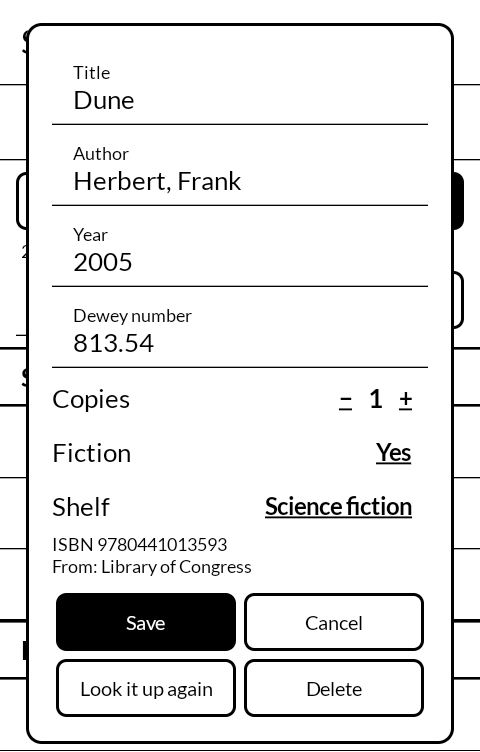
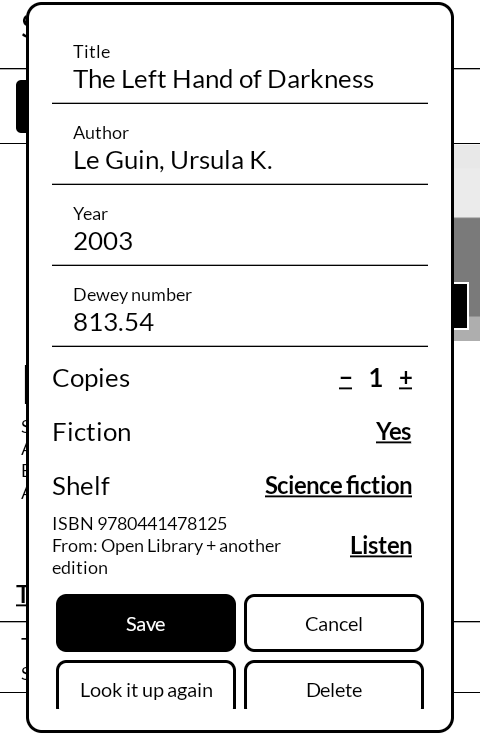
0.1.7: Listen, on a book's page, when Audio Reading has a recording of it

diff --git a/app/src/main/kotlin/com/wanderwildwood/shoka/ui/Dialogs.kt b/app/src/main/kotlin/com/wanderwildwood/shoka/ui/Dialogs.kt
@@ -26,6 +26,7 @@ import androidx.compose.runtime.Composable
 import androidx.compose.runtime.LaunchedEffect
 import androidx.compose.runtime.getValue
 import androidx.compose.runtime.mutableStateOf
+import androidx.compose.runtime.produceState
 import androidx.compose.runtime.remember
 import androidx.compose.runtime.rememberCoroutineScope
 import androidx.compose.runtime.setValue
@@ -52,6 +53,7 @@ import com.wanderwildwood.shoka.Found
 import com.wanderwildwood.shoka.Isbn
 import com.wanderwildwood.shoka.Lccn
 import com.wanderwildwood.shoka.Library
+import com.wanderwildwood.shoka.Listen
 import com.wanderwildwood.shoka.LoginFlow
 import com.wanderwildwood.shoka.Lookup
 import com.wanderwildwood.shoka.R
@@ -258,8 +260,21 @@ fun EditDialog(lib: Library, book: Book, dismiss: () -> Unit) {
                 book.isbn.takeIf { it.isNotEmpty() }?.let { "ISBN $it" },
                 book.lccn.takeIf { it.isNotEmpty() }?.let { "LCCN $it" },
             ).joinToString("  ·  ")
-            if (ids.isNotEmpty()) Note(ids)
-            if (book.source.isNotEmpty()) Note(stringResource(R.string.source, book.source))
+            // Listen sits beside the numbers, only when Audio Reading has this book to play, so
+            // the dialog keeps to one screen.
+            val context = LocalContext.current
+            val recording by produceState<String?>(null, book.title, book.author) {
+                value = withContext(Dispatchers.IO) { Listen.find(context, book) }
+            }
+            Row(verticalAlignment = Alignment.CenterVertically) {
+                Column(Modifier.weight(1f)) {
+                    if (ids.isNotEmpty()) Note(ids)
+                    if (book.source.isNotEmpty()) Note(stringResource(R.string.source, book.source))
+                }
+                recording?.let { key ->
+                    Link(stringResource(R.string.listen)) { Listen.open(context, key); dismiss() }
+                }
+            }
             Spacer(Modifier.height(8.dp))
             // Two to a row, so the whole dialog fits a 480x800 screen without scrolling.
             Row {

diff --git a/app/src/main/kotlin/com/wanderwildwood/shoka/Listen.kt b/app/src/main/kotlin/com/wanderwildwood/shoka/Listen.kt
@@ -1,0 +1,42 @@
+package com.wanderwildwood.shoka
+
+import android.content.Context
+import android.content.Intent
+import android.net.Uri
+
+/**
+ * A book's recording in Audio Reading (com.wanderwildwood.mimidoku), for "Listen" on the book's
+ * page. Audio Reading says whether its library - the card and any Audiobookshelf server - has
+ * the book, answering this app alone and about that one book; without it, or without the book,
+ * there is no "Listen".
+ */
+object Listen {
+
+    private const val AUDIO_READING = "com.wanderwildwood.mimidoku"
+    private const val ACTION_OPEN_BOOK = "com.wanderwildwood.mimidoku.OPEN_BOOK"
+
+    /** Audio Reading's key for [book], or null. Reads another app: call it off the main thread. */
+    fun find(context: Context, book: Book): String? {
+        if (book.title.isBlank()) return null
+        val uri = Uri.parse("content://$AUDIO_READING.books/find").buildUpon()
+            .appendQueryParameter("title", book.title)
+            .apply { if (book.author.isNotBlank()) appendQueryParameter("author", book.author) }
+            .build()
+        return try {
+            context.contentResolver.query(uri, null, null, null, null)?.use { c ->
+                val key = c.getColumnIndex("book")
+                if (key >= 0 && c.moveToFirst()) c.getString(key) else null
+            }
+        } catch (_: Exception) {
+            // Not installed, or too old to answer.
+            null
+        }
+    }
+
+    fun open(context: Context, key: String) {
+        val intent = Intent(ACTION_OPEN_BOOK).setPackage(AUDIO_READING)
+            .putExtra("book", key)
+            .addFlags(Intent.FLAG_ACTIVITY_NEW_TASK)
+        runCatching { context.startActivity(intent) }
+    }
+}

diff --git a/README.md b/README.md
@@ -8,7 +8,7 @@ the order it goes back on the shelf. It will install on any Android 12 device wi
 | | |
 |---|---|
 | ![A new book, added and shown its place](screenshots/1-scan.png) | ![The collection in Sections, fiction shelved by genre](screenshots/2-shelf.png) |
-| ![A book already catalogued, going back on the shelf](screenshots/3-place.png) | ![A book's details](screenshots/4-edit.png) |
+| ![A book already catalogued, going back on the shelf](screenshots/3-place.png) | ![A book's details, with Listen for a recording in Audio Reading](screenshots/4-edit.png) |
 
 ## Cataloguing
 
@@ -24,6 +24,9 @@ the order it goes back on the shelf. It will install on any Android 12 device wi
   hand.
 - A barcode that isn't an ISBN (often a price code on a paperback) is turned away with a
   low tone.
+- **Listen**, on a book's page, when [Audio Reading](https://github.com/wanderwildwood/mimidoku)
+  has a recording of it (on the card or on its Audiobookshelf server): it opens the book
+  there. Audio Reading answers Shelf alone, and only about the book asked for.
 
 Without a connection, books are still scanned and kept. They are looked up when the
 connection comes back.

diff --git a/PRIVACY.md b/PRIVACY.md
@@ -18,4 +18,7 @@ The catalogue itself is kept in the app's private storage. The app does not back
 uninstalling it removes it, along with the Nextcloud sign-in. The copy on Nextcloud stays
 there.
 
+**Audio Reading**, when it is installed: a book's page asks it, on the phone, whether it has
+that book (by title and author), to show **Listen**. Nothing is sent anywhere.
+
 The About dialog's last line opens a web address in your browser, and only when you press it.
